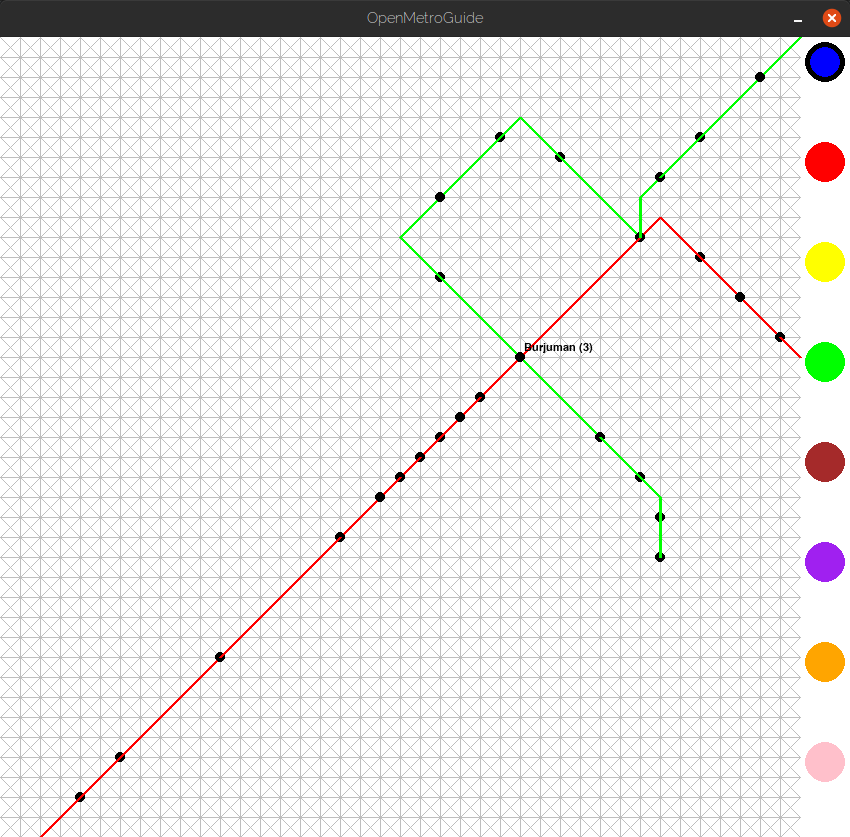
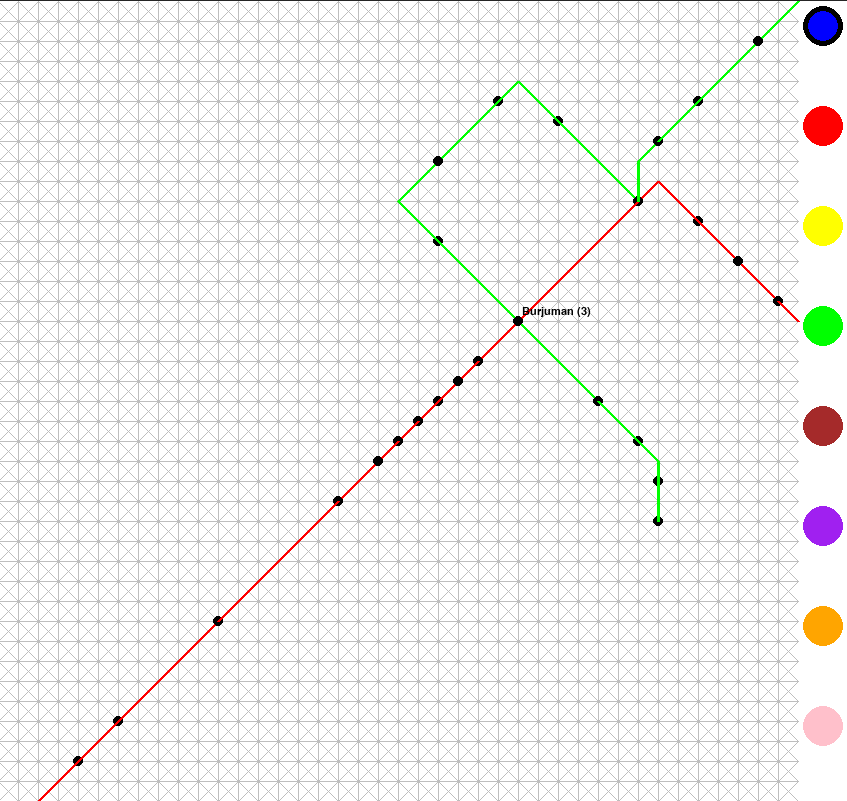
README.md updated + images cropped

diff --git a/README.md b/README.md
@@ -1,4 +1,36 @@
 # OpenMetroGuide
 
-Python application for users to effectively read real-time maintained
-metro maps.
+![Admin](Pictures/admin.png?raw=true "ADMIN")
+![Admin Zoom](Pictures/admin_zoom.png?raw=true "ADMIN")
+![Client](Pictures/client.png?raw=true "ADMIN")
+
+Python application which enables users to create metro maps (Admins) and
+find a path from a starting station to a final destination, with the constraints of
+either distance or time.
+
+
+
+### Requirements
+```
+python (3.9+)
+
+pygame
+
+sqlite3
+```
+
+### Features
+
+* Create and Edit Metro Maps
+  * Use 8 colors to represent different lines
+  * Auto-save when closing window
+* Store Metro Maps
+  * Any number of maps can be stored for later editing/viewing
+* Find shortest/cheapest path from one station to another by constraining Cost/Distance
+* Zoom in/out while editing/viewing (<kbd>Ctrl</kbd> + <kbd>P</kbd>/<kbd>Ctrl</kbd> + <kbd>M</kbd>)
+* Shift right/left while editing/viewing (<kbd><</kbd> / <kbd>></kbd>)
+    
+### Notes
+
+OpenMetroGuide saves metro maps on the local desktop itself. The project
+can be made more potent as a web application.
